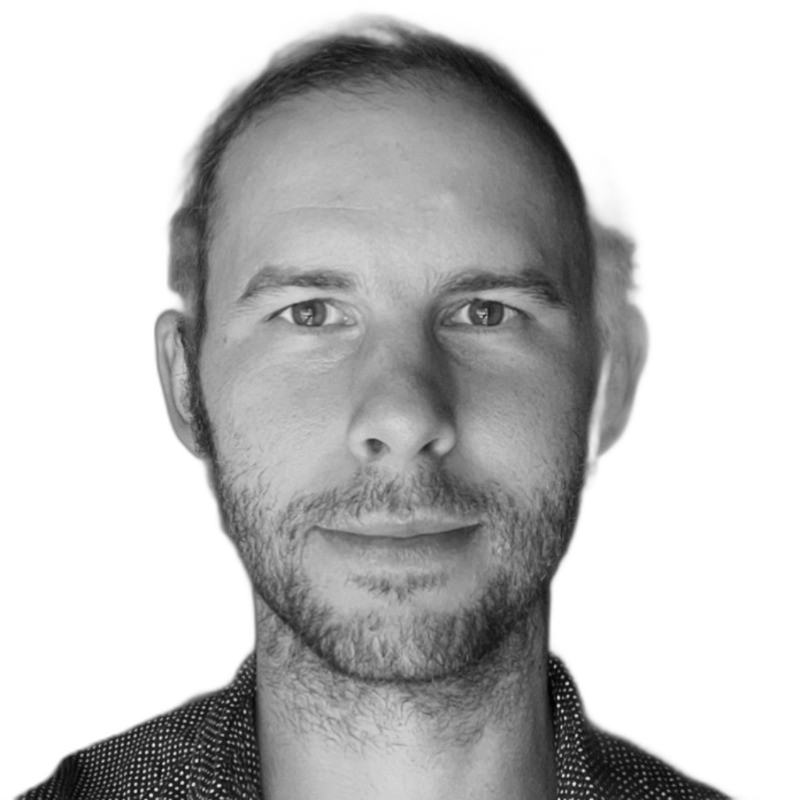
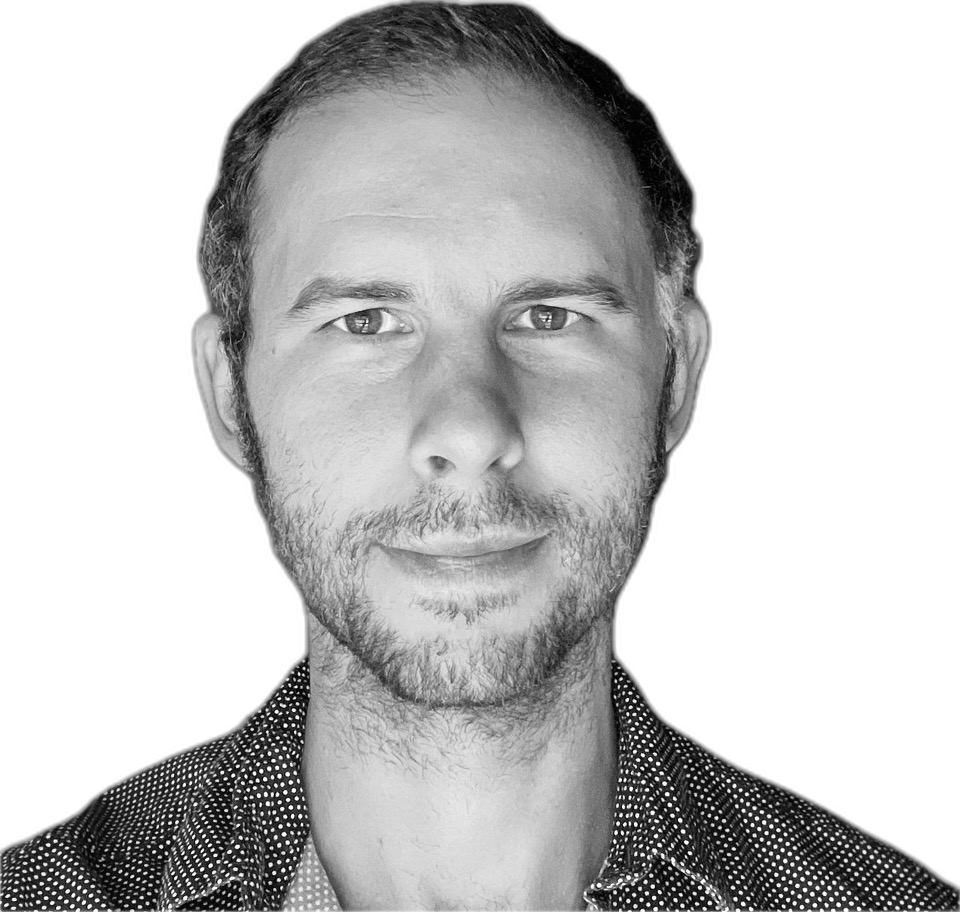
Update headshot, replace A bubbles in intake, slow text scramble
- Replace avatar.png with headshotgtm.jpeg (bg removed via rembg)
- Swap all three A-letter bubbles in intake chat for headshot image
- Slow scramble animation: 18→24 frames, 75ms→130ms interval

diff --git a/src/pages/Intake.jsx b/src/pages/Intake.jsx
@@ -111,8 +111,8 @@ function AssistantMessage({ text, isLatest }) {
 
   return (
     <div className="flex items-start gap-3 max-w-[85%]">
-      <div className="w-7 h-7 rounded-sm bg-primary flex items-center justify-center flex-shrink-0 mt-0.5 shadow-sm">
-        <span className="text-primary-foreground font-black text-xs leading-none" style={{ fontFamily: "'PP Neue Montreal Arabic Medium', system-ui, sans-serif" }}>A</span>
+      <div className="w-7 h-7 rounded-sm bg-secondary flex items-end justify-center flex-shrink-0 mt-0.5 shadow-sm overflow-hidden">
+        <img src="/avatar.png" alt="Alexander" className="w-full h-full object-contain object-bottom" />
       </div>
       <div className="bg-card rounded-xl rounded-tl-sm px-4 py-3 border border-white/5 shadow-sm">
         <p className="text-sm text-card-foreground/85 leading-relaxed">
@@ -140,8 +140,8 @@ function UserMessage({ text, initial }) {
 function ThinkingIndicator() {
   return (
     <div className="flex items-start gap-3 max-w-[85%]">
-      <div className="w-7 h-7 rounded-sm bg-primary flex items-center justify-center flex-shrink-0 shadow-sm">
-        <span className="text-primary-foreground font-black text-xs leading-none" style={{ fontFamily: "'PP Neue Montreal Arabic Medium', system-ui, sans-serif" }}>A</span>
+      <div className="w-7 h-7 rounded-sm bg-secondary flex items-end justify-center flex-shrink-0 shadow-sm overflow-hidden">
+        <img src="/avatar.png" alt="Alexander" className="w-full h-full object-contain object-bottom" />
       </div>
       <div className="bg-card rounded-xl rounded-tl-sm px-4 py-3.5 border border-white/5 shadow-sm">
         <div className="flex items-center gap-1.5">
@@ -171,8 +171,8 @@ function SelectionArtifact({ types }) {
   if (!types || types.length === 0) return null;
   return (
     <div className="flex items-start gap-3 max-w-[92%]">
-      <div className="w-7 h-7 rounded-sm bg-primary flex items-center justify-center flex-shrink-0 mt-0.5 shadow-sm">
-        <span className="text-primary-foreground font-black text-xs leading-none" style={{ fontFamily: "'PP Neue Montreal Arabic Medium', system-ui, sans-serif" }}>A</span>
+      <div className="w-7 h-7 rounded-sm bg-secondary flex items-end justify-center flex-shrink-0 mt-0.5 shadow-sm overflow-hidden">
+        <img src="/avatar.png" alt="Alexander" className="w-full h-full object-contain object-bottom" />
       </div>
       <div className="bg-card rounded-xl rounded-tl-sm px-4 py-3 border border-white/5 shadow-sm">
         <p className="text-xs text-card-foreground/50 mb-2.5 font-mono uppercase tracking-widest">Areas of interest</p>

diff --git a/src/pages/Home.jsx b/src/pages/Home.jsx
@@ -492,8 +492,8 @@ function useScramble(target, active) {
     hasScrambled.current = true;
 
     let frame = 0;
-    const TOTAL    = 18;
-    const INTERVAL = 75; // ms — readable but snappy
+    const TOTAL    = 24;
+    const INTERVAL = 130; // ms — legible, unhurried
 
     const tick = () => {
       frame++;
